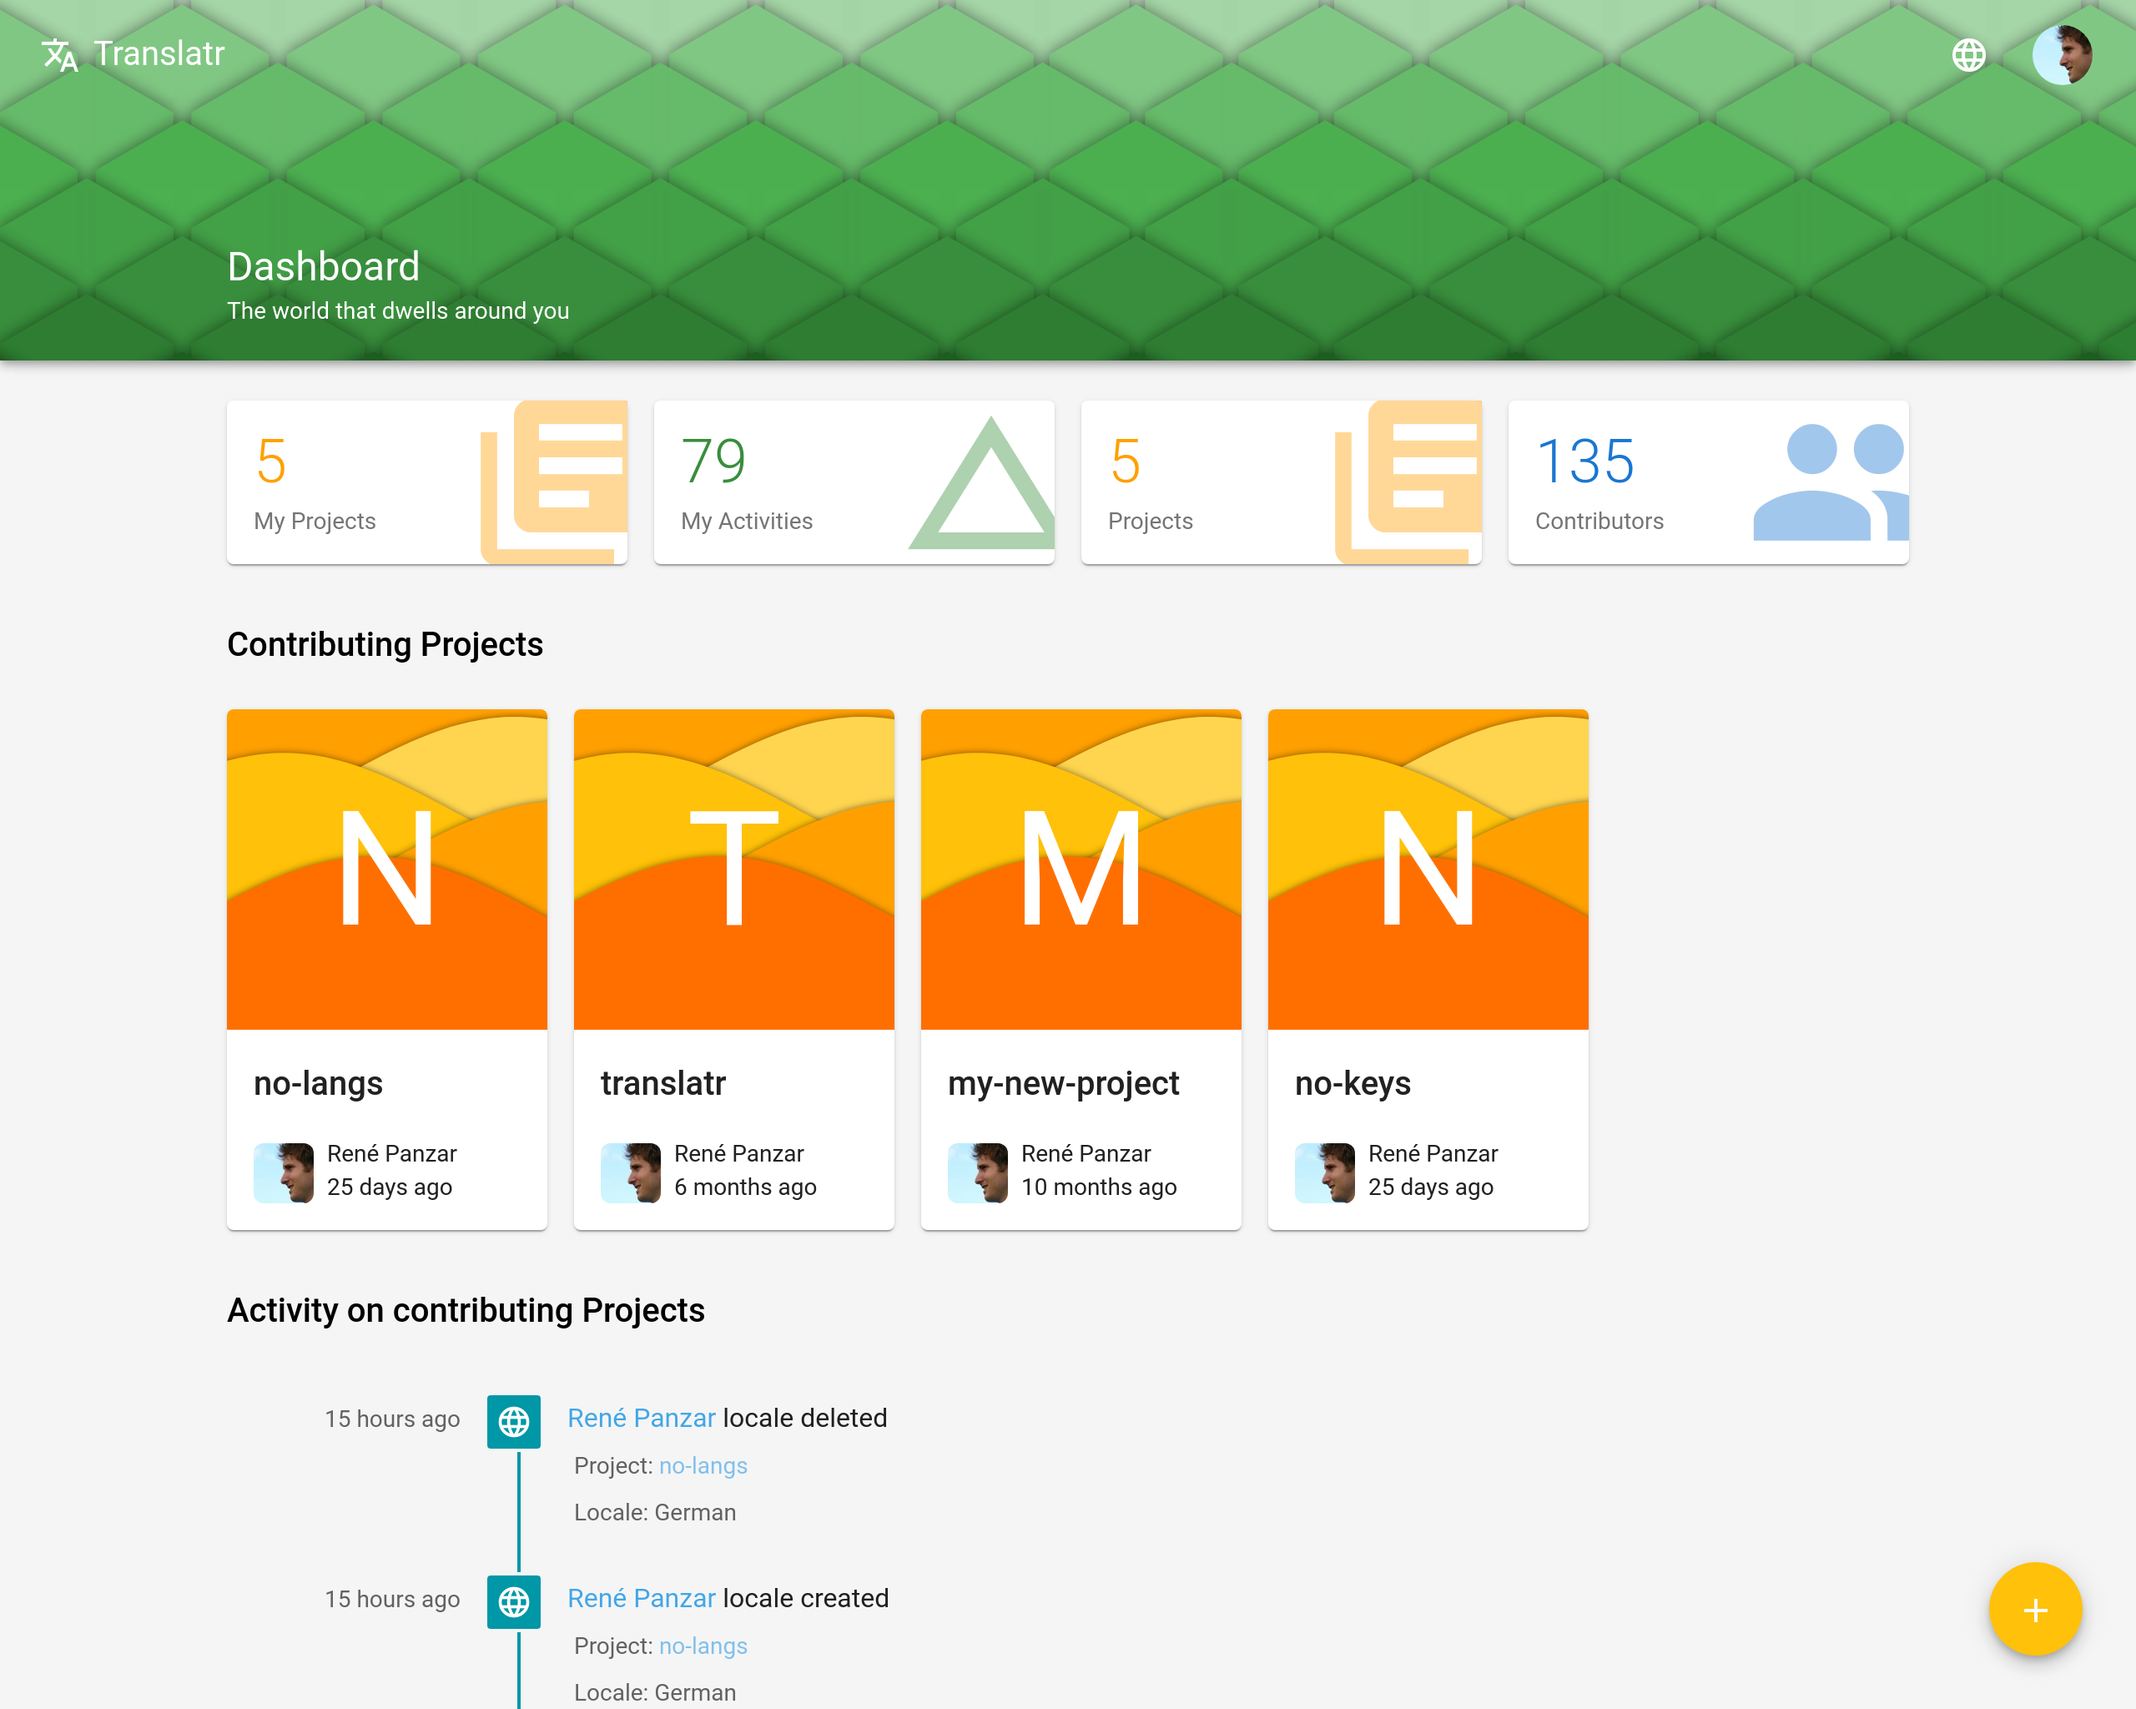
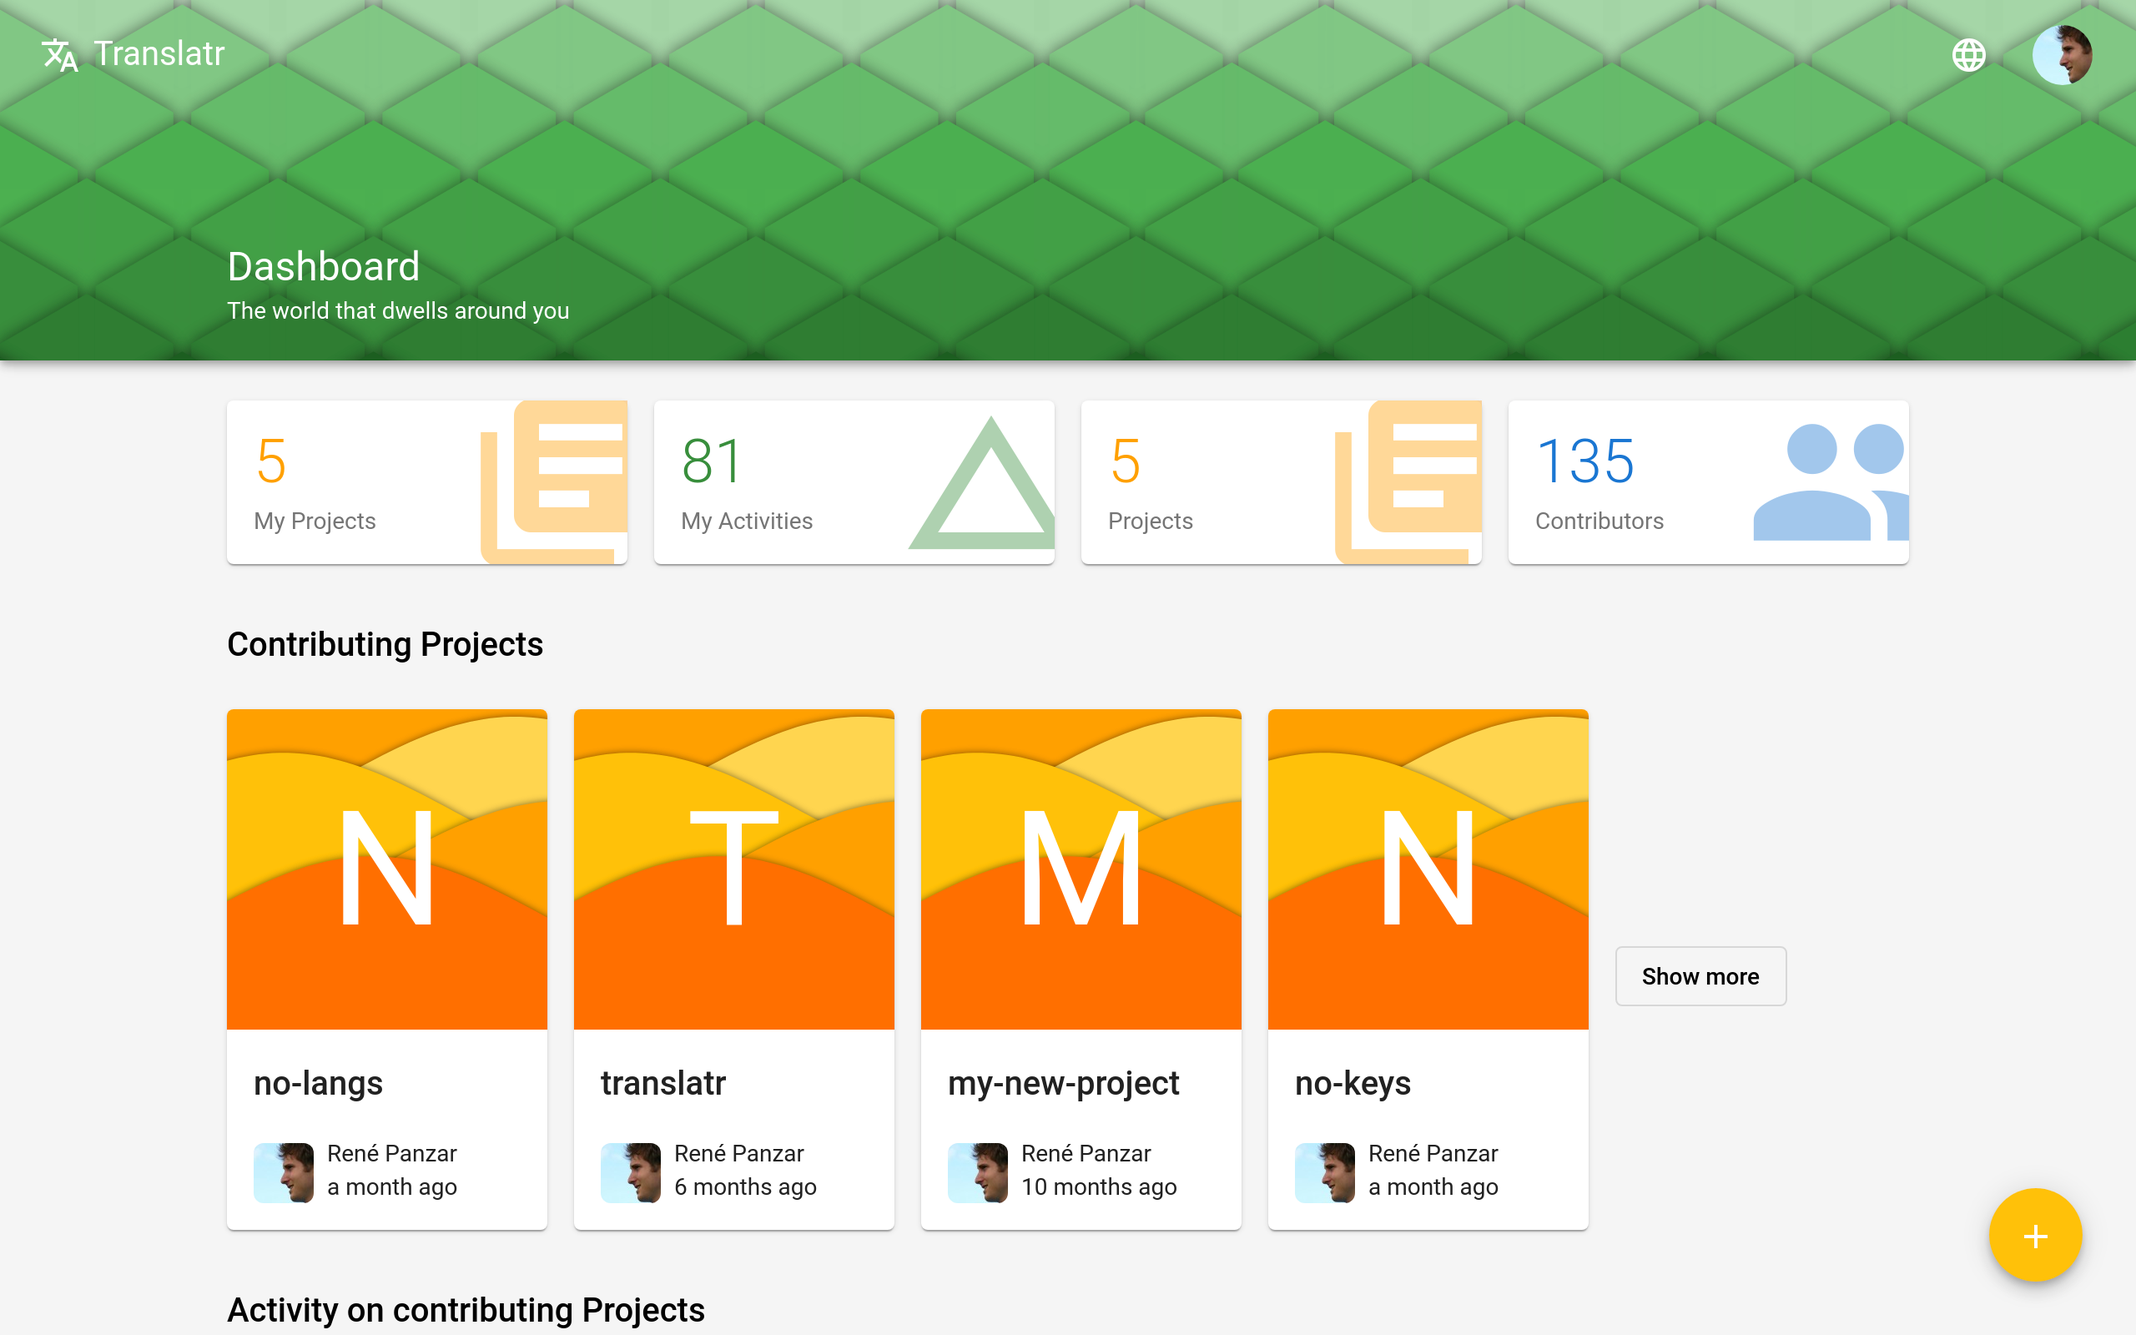
Update documentation with latest screenshots
Also, enables the project CLI card by default.

diff --git a/ui/apps/translatr/src/app/modules/pages/project-page/project-info/project-info.component.html b/ui/apps/translatr/src/app/modules/pages/project-page/project-info/project-info.component.html
@@ -172,47 +172,6 @@
       </mat-card-content>
     </mat-card>
 
-    <mat-card *featureFlag="Feature.ProjectCliCard">
-      <mat-card-header>
-        <mat-card-title transloco="cli.integration.title">CLI Integration</mat-card-title>
-        <mat-card-subtitle [innerHTML]="t('cli.integration.text')"
-        >Sample <strong>.translatr.yml</strong> file to be used with the Translatr CLI.
-        </mat-card-subtitle>
-      </mat-card-header>
-      <mat-card-content>
-        <mat-form-field appearance="outline">
-          <mat-label transloco="filetype.label">File type</mat-label>
-          <mat-select [(value)]="fileType">
-            <mat-option *ngFor="let fileType of fileTypes" [value]="fileType.type">{{fileType.name}}</mat-option>
-          </mat-select>
-        </mat-form-field>
-        <mat-form-field appearance="outline">
-          <mat-label transloco="accessToken">Access token</mat-label>
-          <mat-select [(value)]="accessTokenKey">
-            <mat-option value="${TRANSLATR_ACCESS_TOKEN}" transloco="source.environment">From environment (secure)
-            </mat-option>
-            <mat-option
-              *ngFor="let accessToken of accessTokens$ | async"
-              value="{{accessToken.key}}"
-            >{{accessToken.name}}</mat-option>
-          </mat-select>
-        </mat-form-field>
-
-        <!-- @formatter:off -->
-        <pre class="language-yml"><code>translatr:
-  endpoint: {{endpointUrl}}
-  project_id: {{project.id}}
-  access_token: {{accessTokenKey}}
-  pull:
-    file_type: {{fileType}}
-    target: {{targets[fileType]}}
-  push:
-    file_type: {{fileType}}
-    target: {{targets[fileType]}}</code></pre>
-        <!-- @formatter:on -->
-      </mat-card-content>
-    </mat-card>
-
     <section>
       <h2 transloco="activity">Activity</h2>
       <app-activity-list
@@ -220,6 +179,49 @@
         [showMore]="false"
         relativeTo="project"
       ></app-activity-list>
+    </section>
+
+    <section *featureFlag="Feature.ProjectCliCard">
+      <mat-card>
+        <mat-card-header>
+          <mat-card-title transloco="cli.integration.title">CLI Integration</mat-card-title>
+          <mat-card-subtitle [innerHTML]="t('cli.integration.text')"
+          >Sample <strong>.translatr.yml</strong> file to be used with the Translatr CLI.
+          </mat-card-subtitle>
+        </mat-card-header>
+        <mat-card-content>
+          <mat-form-field appearance="outline">
+            <mat-label transloco="filetype.label">File type</mat-label>
+            <mat-select [(value)]="fileType">
+              <mat-option *ngFor="let fileType of fileTypes" [value]="fileType.type">{{fileType.name}}</mat-option>
+            </mat-select>
+          </mat-form-field>
+          <mat-form-field appearance="outline">
+            <mat-label transloco="accessToken">Access token</mat-label>
+            <mat-select [(value)]="accessTokenKey">
+              <mat-option value="${TRANSLATR_ACCESS_TOKEN}" transloco="source.environment">From environment (secure)
+              </mat-option>
+              <mat-option
+                *ngFor="let accessToken of accessTokens$ | async"
+                value="{{accessToken.key}}"
+              >{{accessToken.name}}</mat-option>
+            </mat-select>
+          </mat-form-field>
+
+          <!-- @formatter:off -->
+        <pre class="language-yml"><code>translatr:
+  endpoint: {{endpointUrl}}
+          project_id: {{project.id}}
+          access_token: {{accessTokenKey}}
+          pull:
+    file_type: {{fileType}}
+          target: {{targets[fileType]}}
+          push:
+    file_type: {{fileType}}
+          target: {{targets[fileType]}}</code></pre>
+        <!-- @formatter:on -->
+        </mat-card-content>
+      </mat-card>
     </section>
 
     <div></div>

diff --git a/ui/apps/translatr/src/app/modules/shared/activity-list/activity-list.component.scss b/ui/apps/translatr/src/app/modules/shared/activity-list/activity-list.component.scss
@@ -1,5 +1,10 @@
 @import 'mixins';
 
+:host {
+  display: block;
+  padding-bottom: 16px;
+}
+
 .activity-list-item.mat-list-item {
   position: relative;
 

diff --git a/app/models/Feature.java b/app/models/Feature.java
@@ -8,7 +8,7 @@ import java.util.stream.Stream;
 import static java.util.stream.Collectors.toMap;
 
 public enum Feature {
-  ProjectCliCard("project-cli-card", false),
+  ProjectCliCard("project-cli-card", true),
   HeaderGraphic("header-graphic", true),
   LanguageSwitcher("language-switcher", true);
 

diff --git a/README.md b/README.md
@@ -1,26 +1,39 @@
 # Translatr [![Build Status](https://travis-ci.org/resamsel/translatr.svg?branch=master)](https://travis-ci.org/resamsel/translatr) [![Coverage Status](https://coveralls.io/repos/github/resamsel/translatr/badge.svg?branch=master)](https://coveralls.io/github/resamsel/translatr?branch=master) [![PRs Welcome](https://img.shields.io/badge/PRs-welcome-brightgreen.svg?style=flat)](http://makeapullrequest.com)
 
-A modern and intuitive i18n tool. Translatr simplifies i18n for developers and translators. It uses the [Play Framework](http://www.playframework.com) to translate other projects. Importing conf/messages.locale (Play Framework), src/main/resources/messages_locale.properties (Java properties), and i18n/locale/main.po (Gettext) files allows easy locale management.
+A modern and intuitive i18n tool. Translatr simplifies i18n for developers and translators. It uses
+the [Play Framework](http://www.playframework.com) to translate other projects. Importing
+`conf/messages.locale` (Play Framework), `src/main/resources/messages_locale.properties` (Java
+properties), and `i18n/locale/main.po` (Gettext) files allows easy locale management.
 
 [Demo](https://translatr.repanzar.com/)
 
-![Project Overview Example](doc/images/dashboard.png "Dashboard Example")
+![Dashboard Example](doc/images/dashboard.png "Dashboard Example")
 
 ## Speeds up development
 
-Preview, quick switching between locales, and the possibility of build system integration allows faster development.
+Preview, quick switching between locales, and the possibility of build system integration allows
+faster development.
+
+![Language Editor](doc/images/language-editor.png "Language Editor")
 
 ## User experience focused
 
-Using the application is made as comfortable as possible because of focussing on both main use cases - development and translation.
+Using the application should feel as comfortable as possible because of focusing on both main use
+cases - development and translation.
+
+![Project Example](doc/images/project.png "Project Example")
 
 ## Easy to work with
 
-All elements - search, content creation, notifications, ... - follow the concepts of Material Design to allow the easiest and most intuitive use possible.
+All elements - search, content creation, ... - follow the concepts of Material
+Design to allow the easiest and most intuitive usage possible.
+
+![User Settings](doc/images/user-settings.png "User Settings")
 
 # Command Line Interface
 
-The Command Line Interface allows to manage translations through the command line. Operations can be used in build scripts to automatically retrieve the latest translations.
+The Command Line Interface allows managing translations through the command line. Operations
+can be used in build scripts to automatically retrieve the latest translations.
 
 ## Installation
 
@@ -32,28 +45,14 @@ curl -fsSL https://raw.githubusercontent.com/resamsel/translatr/master/install.s
 
 ## Usage
 
-To use Translatr CLI we need a .translatr.yml config file. Create one in any directory that you want to enable the CLI. Translatr will then use that file as configuration.
+To use Translatr CLI we need a `.translatr.yml` config file. Create one in any directory that you
+want to enable the CLI. The Translatr CLI will then use that file as configuration.
 
-### Example .translatr.yml for Play messages
+Creating a config file is easy with version 3. On the project page, scroll down to the CLI
+Integration card. You'll find a sample file, along with the option of choosing the file type and
+the access token.
 
-```
-translatr:
-  endpoint: https://translatr.repanzar.com
-  access_token: $ACCESS_TOKEN
-  project_id: <project ID>
-  pull:
-    file_type: play_messages
-    target: conf/messages.?{locale.name}
-  push:
-    file_type: play_messages
-    target: conf/messages.?{locale.name}
-```
-
-Create a new access token (profile -> access tokens) and enter it in .translatr.yml.
-
-![User Access Token](https://github.com/resamsel/translatr/wiki/images/user-access-token.png "User Access Token")
-
-Then, create a project in the web GUI and enter the project ID (40 character UUID in the URL, i.e. http://localhost:9000/project/**6f1ee0a7-b5d1-4c7f-8e4d-46c09fece220** -> project ID: **6f1ee0a7-b5d1-4c7f-8e4d-46c09fece220**) in .translatr.yml.
+![CLI Integration Card](doc/images/project-cli-integration.png "CLI Integration Card")
 
 ### Pushing
 
@@ -79,7 +78,7 @@ This will overwrite any existing files locally. All known locales will be downlo
 
 ### Prerequisites
 
-For development you'll need the following dependencies.
+For development, you need the following dependencies.
 
 1. Java 8 JDK (i.e. OpenJDK 8)
 1. Docker
